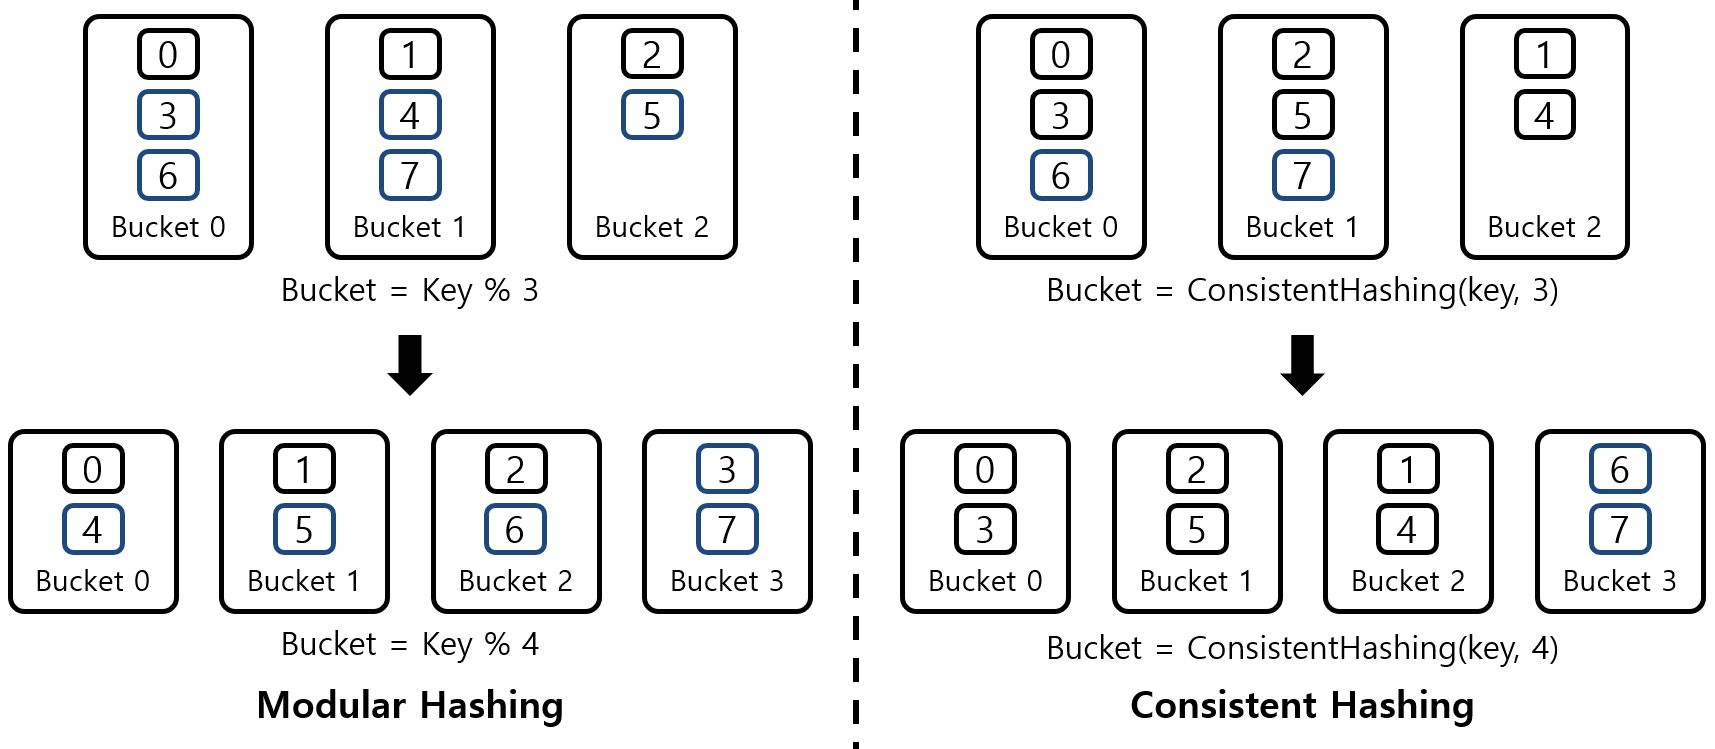
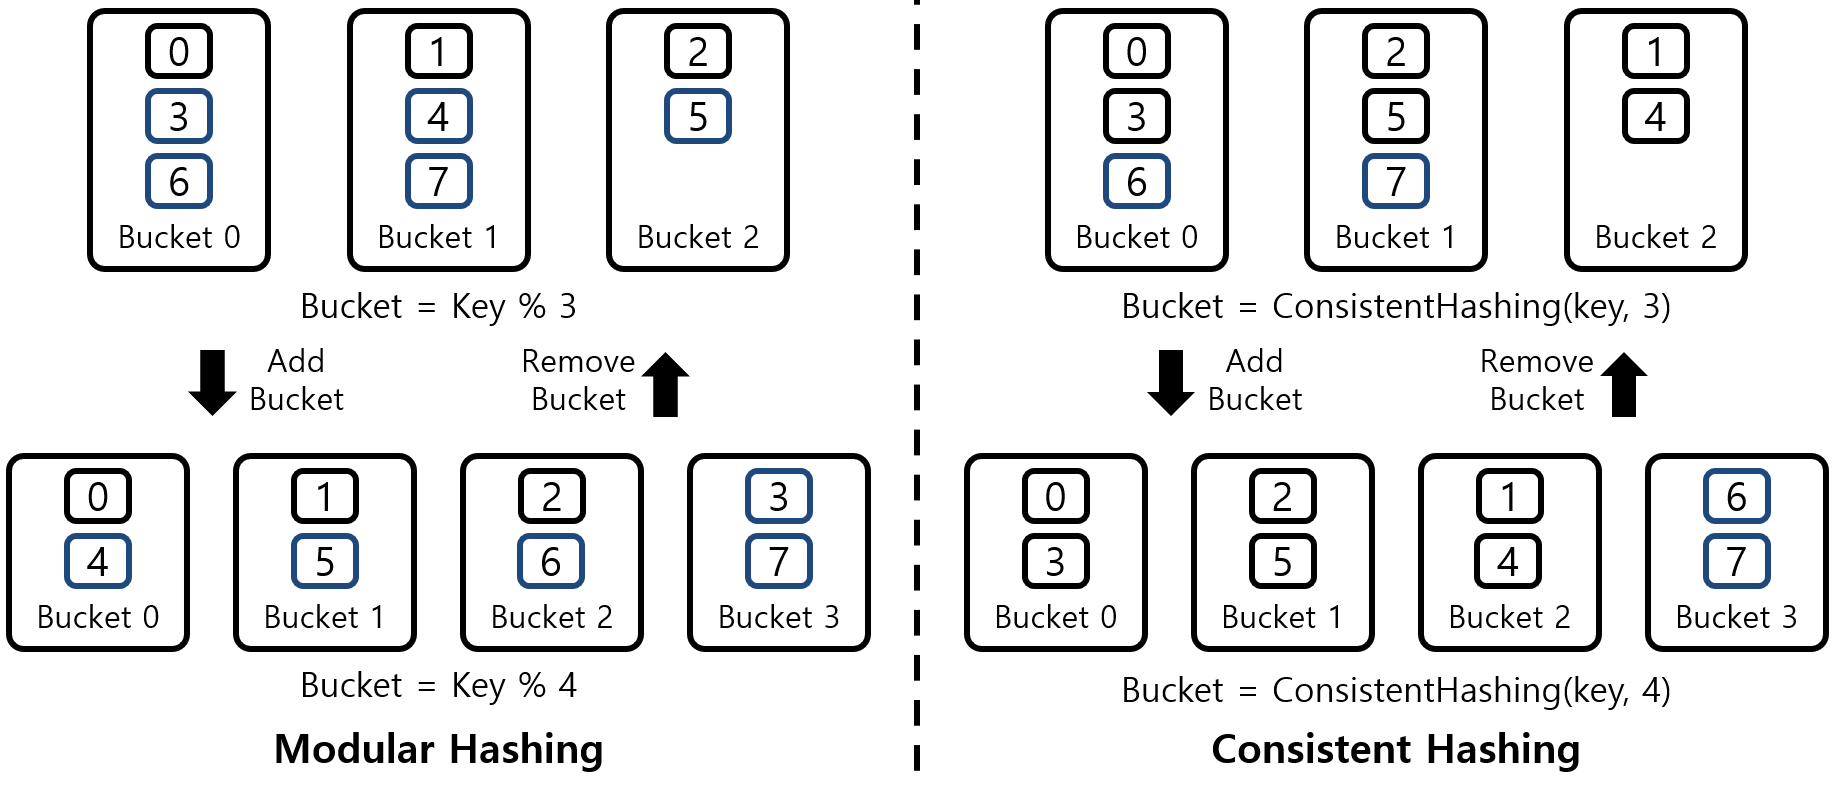
Update

diff --git a/_docs/theory_analysis/Consistent_Hashing.md b/_docs/theory_analysis/Consistent_Hashing.md
@@ -13,6 +13,10 @@ Consistent Hashing을 분석한다.
 
 ![[그림 1] Consistent Hashing]({{site.baseurl}}/images/theory_analysis/Consistent_Hashing/Consistent_Hashing.PNG){: width="700px"}
 
+Consistent Hashing은 Hashing Algorithm 중 하나이다. **분배 Algorithm**으로 Hashing을 이용할 경우 일반적으로 Consistent Hashing을 많이 이용한다. [그림 1]은 일반적으로 가장 많이 이용되는 Modular Hashing과 Consistent Hashing을 비교하고 있다. Modular Hashing의 경우 Bucket의 개수가 변경될 경우 Rebalancing 과정을 통해서 Bucket의 소속된 대부분의 Key도 같이 이동하게 된다. 이러한 많은 Key의 이동은 성능 저하의 원인이 된다.
+
+예를들어 Modular Hashing을 기반으로 다수의 Disk 사이에서 Data를 Sharding해서 저장했다고 한다면, Disk가 추가/제거 될때마다 많은 Data의 이동이 발생하게 된다. 이러한 문제 해결을 위해서 Bucket을 추가/제거시 Key의 이동을 최소화 하기 위해서 만들어진 Hashing Algorithm이 Consistent Hashing이다. Consistent Hashing은 Bucket 추가/제거시 평균적으로 **(전체 Key의 개수)/Bucket** 개수의 Key가 이동한다.
+
 #### 1.1. Ring Consistent Hashing
 
 ![[그림 2] Ring Consistent Hashing]({{site.baseurl}}/images/theory_analysis/Consistent_Hashing/Ring_Consistent_Hashing.PNG){: width="700px"}
